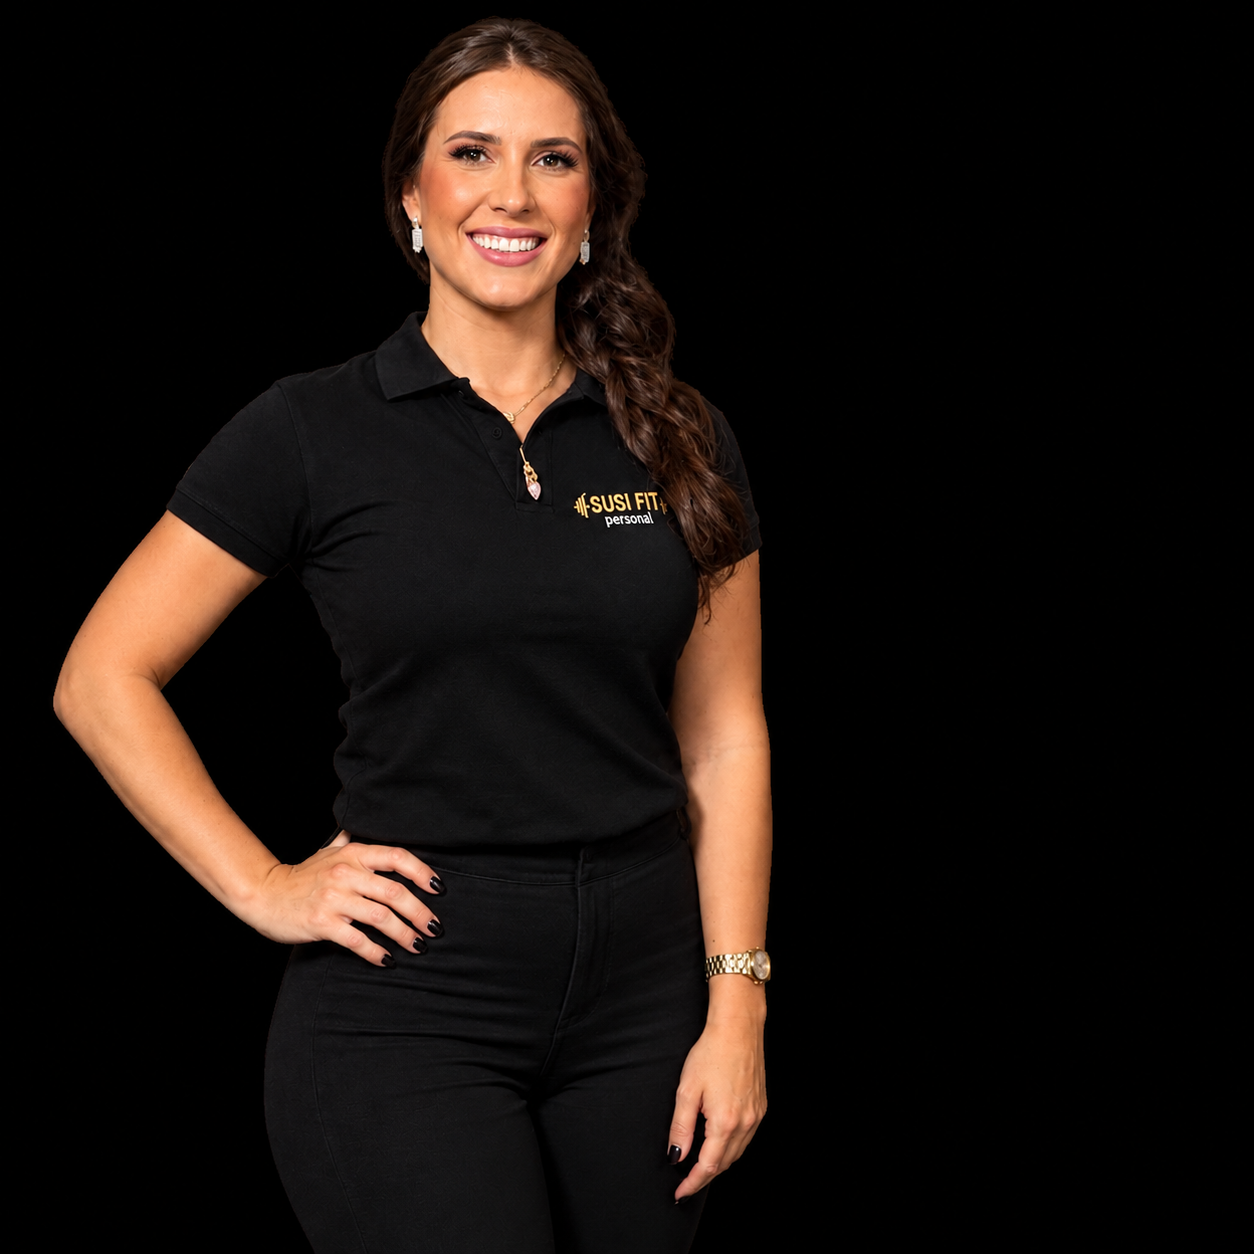
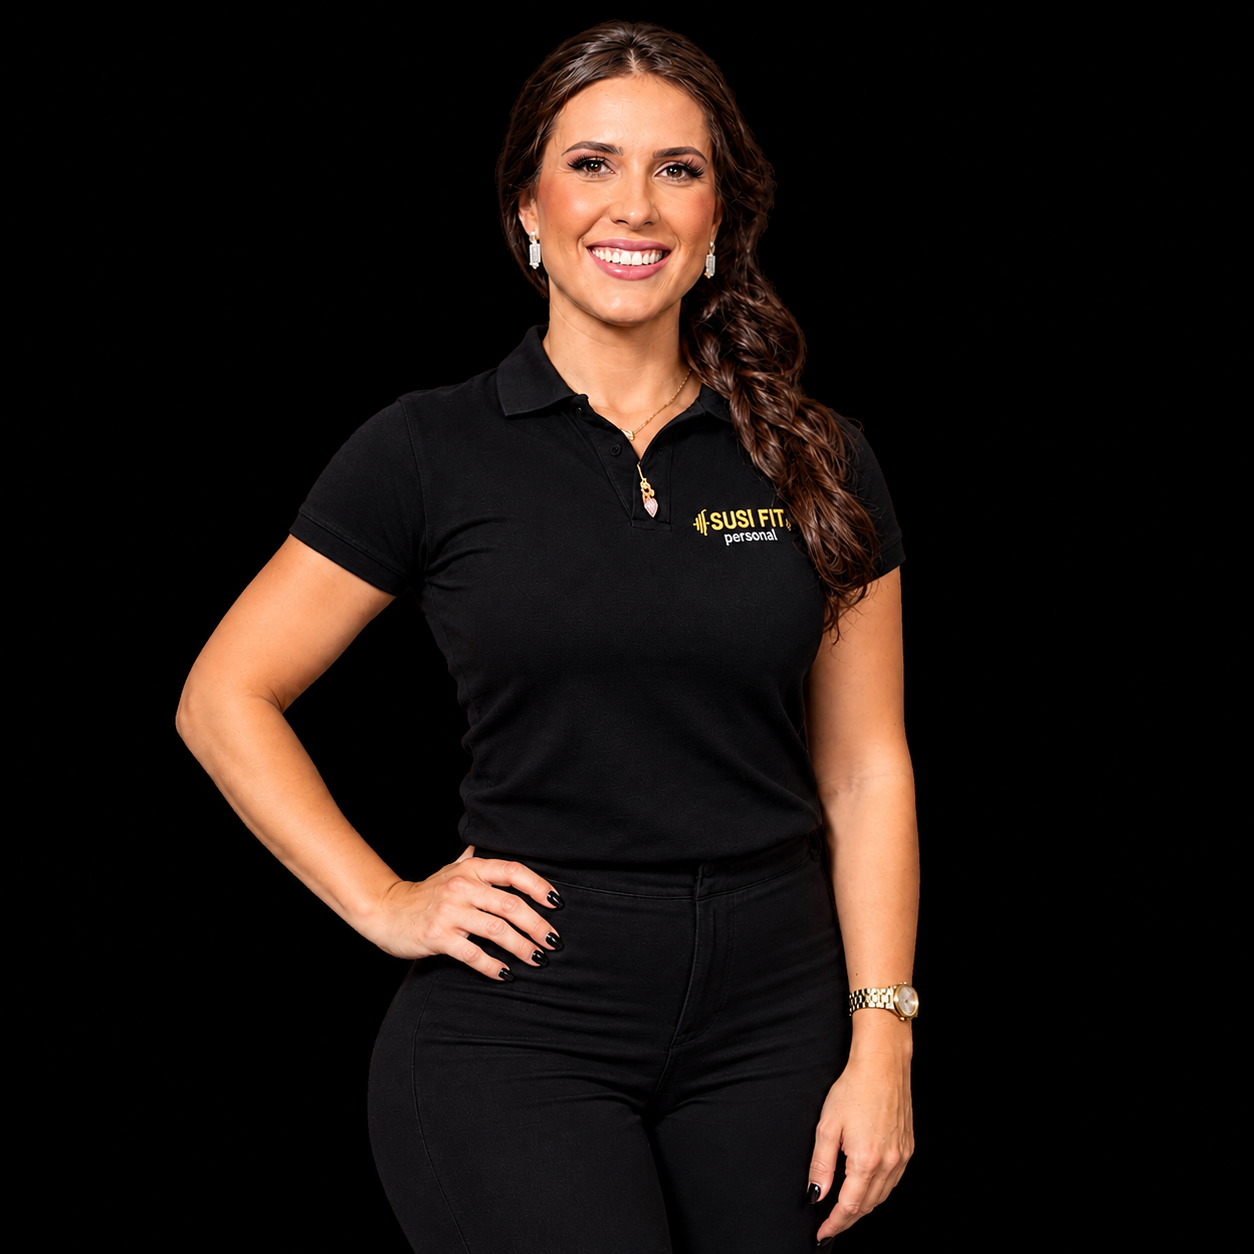
personalizando

Changed region(s): [[0.0311, 0.0, 0.7464, 0.9952], [0.4354, 0.933, 0.4665, 0.9641], [0.311, 0.4354, 0.3421, 0.4665]]

diff --git a/index.html b/index.html
@@ -21,7 +21,7 @@
     <section class="section animal"><div class="container animal-grid"><div><div class="eyebrow" style="color:#000">Treino que faz bem</div><h2>Movimento<br>também é<br>cuidado.</h2><p style="font-weight:700;max-width:520px">A Susi Fit apoia a causa animal.</p><a class="btn btn-dark" href="https://wa.me/5514997653390" target="_blank">Conheça nossa causa →</a></div><div class="animals" aria-label="Cachorro e gato animados"><span><img class="imgpet" src="./assents/pet.png"></span></div></div></section>
     <section class="section" id="contato"><div class="container"><div class="section-head"><div><div class="eyebrow">Venha conhecer</div><h2>Seu próximo<br>treino começa aqui.</h2></div></div><div class="map-wrap"><div class="location-box"><div class="eyebrow" style="color:#000">Onde estamos</div><h3>Jardim Nova Lençóis,<br> Lençóis Paulista -SP</h3><p>Rua Dos Chupins, 429 <br> Telefone: 014 9 9765-3390</p><a class="btn btn-dark" href="https://www.google.com/maps/place/SusiFit+Studio/@-22.5784034,-48.8146174,21z/data=!4m6!3m5!1s0x94c0b193ef96cca7:0xe93def01f34f3aa2!8m2!3d-22.5786057!4d-48.8146063!16s%2Fg%2F11yr05b7lh?entry=ttu&g_ep=EgoyMDI2MDkyNy4xIKXMDSoASAFQAw%3D%3D" target="_blank">Abrir no Google Maps ↗</a></div><div  class="map"><iframe src="https://www.google.com/maps/embed?pb=!1m18!1m12!1m3!1d230.25116966257553!2d-48.81461742058749!3d-22.578403366751292!2m3!1f0!2f0!3f0!3m2!1i1024!2i768!4f13.1!3m3!1m2!1s0x94c0b193ef96cca7%3A0xe93def01f34f3aa2!2sSusiFit%20Studio!5e0!3m2!1spt-BR!2sbr!4v1790732448610!5m2!1spt-BR!2sbr" width="685" height="470" style="border:0;" allowfullscreen="" loading="lazy" referrerpolicy="strict-origin-when-cross-origin"></iframe></div></div></div></section>
   </main>
-  <footer><div class="container footer-in"><span>© 2026 Susi Fit Studio. Treine forte. Viva mais.</span><span>Siga nossas redes sociais!</span><span><a href="https://www.instagram.com/susii_fit/"><img class="icons" src="./assents/instagram.png"></a> <a href="https://wa.me/5514997653390"><img class="icons" src="./assents/whatsapp.png"></a> <a><img class="icons" src="./assents/facebook.png"></a></span></div></footer>
+  <footer><div class="container footer-in"><span>© 2026 Susi Fit Studio. Treine forte. Viva mais.</span><span>Siga nossas redes sociais!</span><span><a href="https://www.instagram.com/susii_fit/"><img class="icons" src="./assents/instagram.png"></a> <a href="https://wa.me/5514997653390"><img class="icons" src="./assents/whatsapp.png"></a> <a href="https://www.facebook.com/susiifit/?locale=fo_FO"><img class="icons" src="./assents/facebook.png"></a></span></div></footer>
   <a class="whatsapp" href="https://wa.me/5514997653390" target="_blank" aria-label="Falar no WhatsApp"><img class="imgw" src="assents/whatsapp.png"></a>
 
   <script src="index.js"></script>

diff --git a/style.css b/style.css
@@ -381,21 +381,23 @@ a {
 }
 
 .poster {
-  min-height: 450px;
-  
+  min-height: 500px;
   border-radius: 28px;
   background: var(--yellow);
   color: #000;
-  padding: 26px;
+  padding:0px;
   position: relative;
+      display: flex;
+    /* align-items: center; */
+    justify-content: center;
+    min-width: 100%;
   overflow: hidden;
 }
 
 .imgsusi{
 
-  height: 515px;
-
-  border-radius: 10px;
+  height: 500px;
+  
 }
 
 .poster:before {
@@ -426,8 +428,8 @@ a {
 .qualification {
   border-left: 4px solid var(--yellow);
   padding: 14px 17px;
-  background: #151515;
-  border-radius: 0 14px 14px 0;
+  background: #000000;
+  border-radius: 15px;
 }
 
 .qualification strong {
